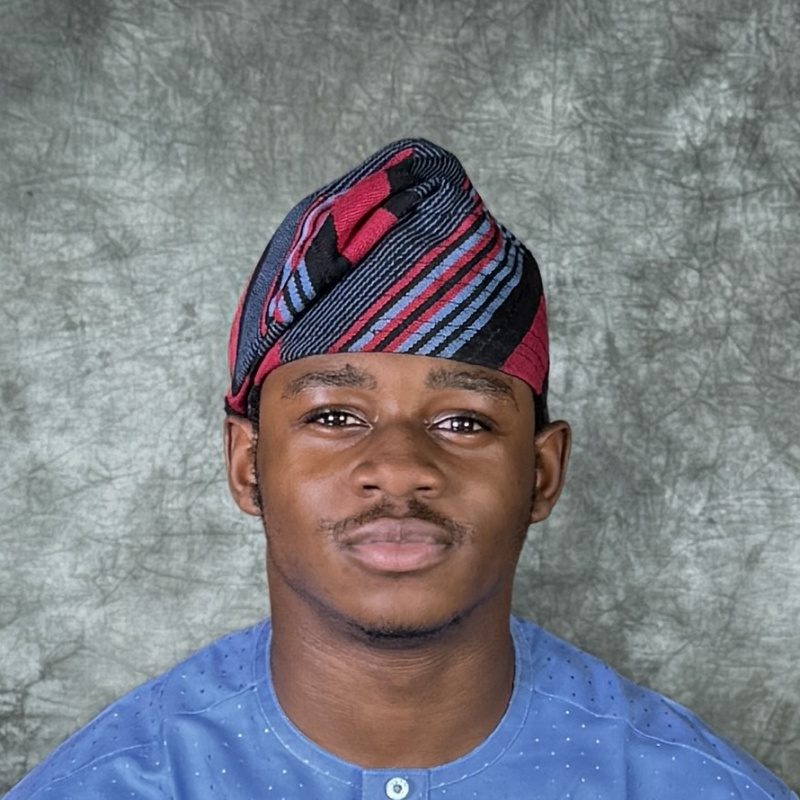
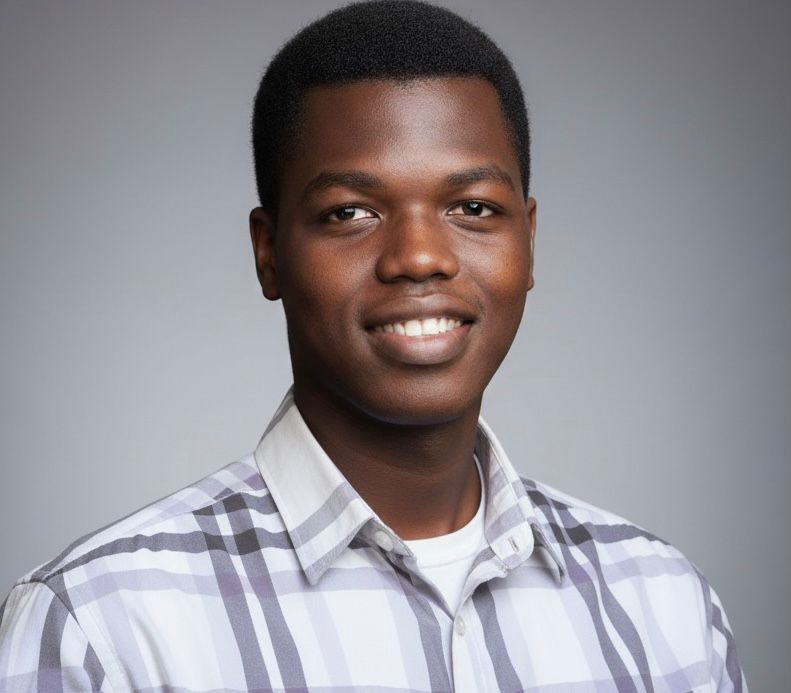
chore: update team member details, remove entry, and correct image path and name spelling

diff --git a/lib/team-data.ts b/lib/team-data.ts
@@ -281,23 +281,7 @@ const roster2526Raw: TeamMember[] = [
       url: "https://open.spotify.com/embed/track/46eu3SBuFCXWsPT39Yg3tJ?utm_source=generator",
     },
   },
-  {
-    name: "Oghojafor Oghenemaro Esther.O",
-    role: "Member",
-    image: "/team/media-and-marketing/radar/adefila-olutayo-esther.jpeg",
-    wordsToLiveBy: "\"What would Jesus do in this situation \"",
-    links: {
-      twitter: "https://x.com/Alphamaro",
-      linkedin: "https://www.linkedin.com/in/oghenemaro-oghojafor-12bb25402?utm_source=share_via&utm_content=profile&utm_medium=member_android",
-      portfolio: "",
-    },
-    music: {
-      name: "Doors",
-      artist: "Noah kahan (",
-      url: "https://open.spotify.com/embed/track/3iU2qsthCTo5EeTE03l3Si?utm_source=generator",
-    },
-  },
-  {
+   {
     name: "Azubuike Chimamanda Favour",
     role: "Media and Marketing Co-Lead",
     image: "/team/core-team/azubuike-chimamanda-favour.jpg",
@@ -700,7 +684,7 @@ const roster2526Raw: TeamMember[] = [
   {
     name: "Adefila Olutayo Esther",
     role: "Member",
-    image: "https://api.dicebear.com/9.x/lorelei-neutral/svg?seed=AdefilaOlutayoEsther",
+    image: "/team/media-and-marketing/radar/adefila-olutayo-esther.jpeg",
     wordsToLiveBy: "Seek first the Kingdom \u2728",
     links: {
       twitter: "",
@@ -939,7 +923,7 @@ const roster2526Raw: TeamMember[] = [
     },
   },
   {
-    name: "Offiog Ryan",
+    name: "Offiong Ryan",
     role: "Lead",
     image: "/team/events-logistics/offiog-ryan-lead.jpg",
     wordsToLiveBy: "",
